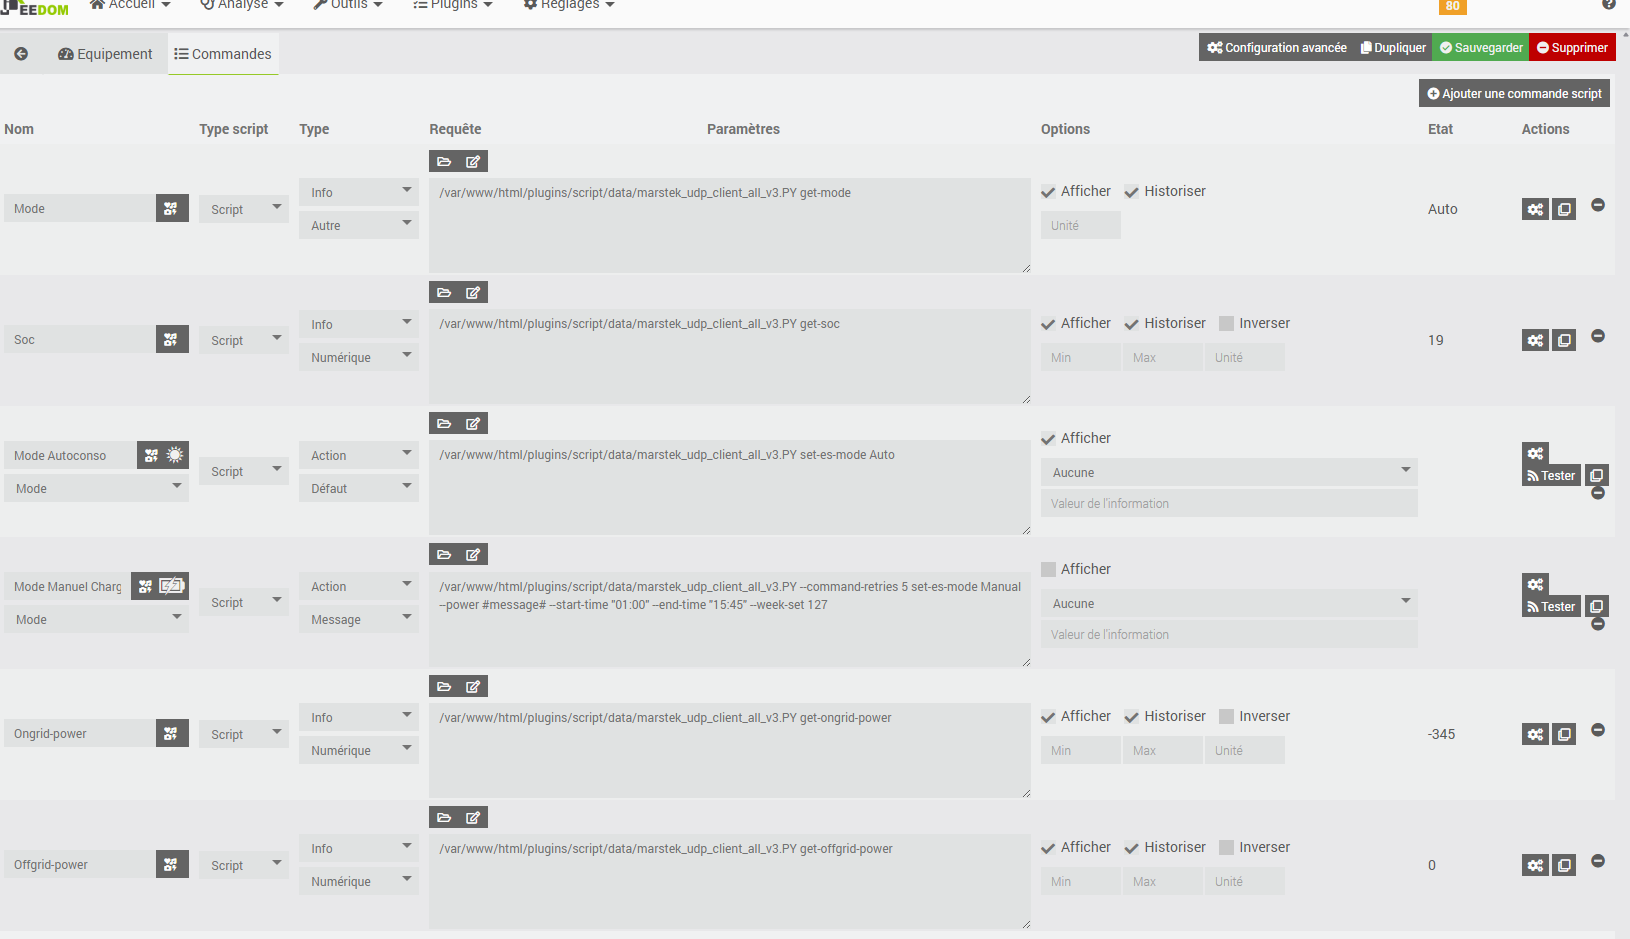
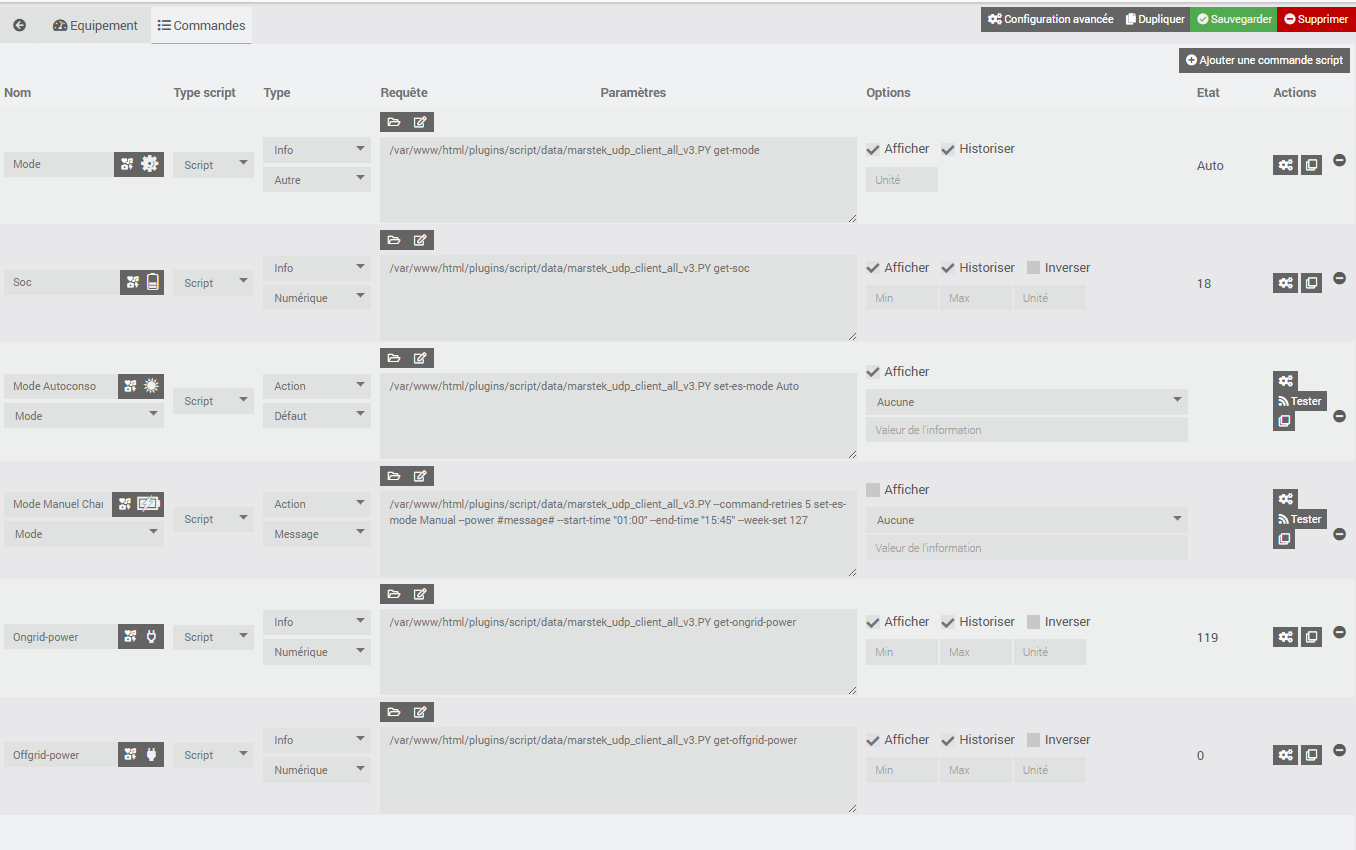
Add verbose option to jeedom compatibilty

diff --git a/marstek_udp_client_all_v3.py b/marstek_udp_client_all_v3.py
@@ -17,8 +17,8 @@ import sys
 import time
 from typing import Optional, Tuple, List, Any
 
-# Suppression du logging pour ne pas polluer la sortie JSON
-logging.basicConfig(level=logging.WARNING) 
+# Logging désactivé par défaut pour ne pas polluer la sortie JSON (activable avec --verbose)
+logging.basicConfig(level=logging.CRITICAL) 
 
 DEFAULT_IP = "192.168.0.182"
 DEFAULT_PORT = 30000
@@ -94,7 +94,8 @@ def execute_with_retry(
     max_retries: int = 3,
     base_delay: float = 1.0,
     base_timeout: float = None,
-    validation_func=None
+    validation_func=None,
+    verbose: bool = False
 ) -> Any:
     """
     Execute an operation with intelligent retry, progressive delay, and progressive timeout.
@@ -106,6 +107,7 @@ def execute_with_retry(
         base_delay: Base delay in seconds (will be doubled each attempt)
         base_timeout: Base timeout for operation (will be doubled each attempt). If None, timeout not modified.
         validation_func: Optional function to validate the result (returns True if valid)
+        verbose: If True, display retry warnings
 
     Returns:
         Result from operation_func if successful
@@ -116,8 +118,8 @@ def execute_with_retry(
             current_timeout = None
             if base_timeout is not None:
                 current_timeout = base_timeout + (1.0 * attempt)
-                if attempt > 0:
-                    logging.info(f"{operation_name} attempt {attempt + 1} using increased timeout: {current_timeout}s")
+                if attempt > 0 and verbose:
+                    print(f"INFO: {operation_name} attempt {attempt + 1} using increased timeout: {current_timeout}s", file=sys.stderr)
 
             # Exécuter l'opération avec timeout progressif si supporté
             result = operation_func(current_timeout) if base_timeout is not None else operation_func()
@@ -133,10 +135,12 @@ def execute_with_retry(
                             error_msg = first_result['error'].get('message', 'Unknown error')
                             # Parse error (-32700) ou autres erreurs critiques : retry
                             if error_code == -32700 or error_code < 0:
-                                logging.warning(f"{operation_name} attempt {attempt + 1} failed with error {error_code}: {error_msg}")
+                                if verbose:
+                                    print(f"WARNING: {operation_name} attempt {attempt + 1} failed with error {error_code}: {error_msg}", file=sys.stderr)
                                 if attempt < max_retries - 1:
                                     delay = base_delay * (2 ** attempt)
-                                    logging.warning(f"Retrying {operation_name} in {delay}s...")
+                                    if verbose:
+                                        print(f"WARNING: Retrying {operation_name} in {delay}s...", file=sys.stderr)
                                     time.sleep(delay)
                                     continue
                         elif 'result' in first_result:
@@ -151,14 +155,17 @@ def execute_with_retry(
             # Échec de validation : retry
             if attempt < max_retries - 1:
                 delay = base_delay * (2 ** attempt)
-                logging.warning(f"{operation_name} attempt {attempt + 1} failed validation, retrying in {delay}s...")
+                if verbose:
+                    print(f"WARNING: {operation_name} attempt {attempt + 1} failed validation, retrying in {delay}s...", file=sys.stderr)
                 time.sleep(delay)
 
         except Exception as e:
-            logging.error(f"{operation_name} attempt {attempt + 1} raised exception: {e}")
+            if verbose:
+                print(f"ERROR: {operation_name} attempt {attempt + 1} raised exception: {e}", file=sys.stderr)
             if attempt < max_retries - 1:
                 delay = base_delay * (2 ** attempt)
-                logging.warning(f"Retrying {operation_name} in {delay}s...")
+                if verbose:
+                    print(f"WARNING: Retrying {operation_name} in {delay}s...", file=sys.stderr)
                 time.sleep(delay)
             else:
                 # Dernière tentative : laisser l'exception remonter
@@ -221,13 +228,15 @@ def get_single_value(args: argparse.Namespace, field_name: str, source: str = "b
         return False
 
     # Utiliser le système de retry intelligent avec timeout progressif
+    verbose = getattr(args, 'verbose', False)
     results = execute_with_retry(
         operation_func=fetch_data,
         operation_name=f"get-{field_name}",
         max_retries=max_retries,
         base_delay=1.0,
         base_timeout=args.timeout,
-        validation_func=validate_result
+        validation_func=validate_result,
+        verbose=verbose
     )
 
     # Extract the field value
@@ -253,6 +262,7 @@ def execute_command(args: argparse.Namespace) -> List[Any]:
         local_bind = (host, int(port_str))
 
     max_retries = getattr(args, 'command_retries', 3)
+    verbose = getattr(args, 'verbose', False)
 
     # Logique pour la commande par défaut: all-status (le plus pertinent pour Jeedom)
     if args.cmd == "all-status":
@@ -280,7 +290,8 @@ def execute_command(args: argparse.Namespace) -> List[Any]:
             operation_name="all-status",
             max_retries=max_retries,
             base_delay=1.0,
-            base_timeout=args.timeout
+            base_timeout=args.timeout,
+            verbose=verbose
         )
 
     # Pour les commandes simples d'état (GET) - Pour VenusE 3.0
@@ -297,7 +308,8 @@ def execute_command(args: argparse.Namespace) -> List[Any]:
             operation_name="es-mode",
             max_retries=max_retries,
             base_delay=1.0,
-            base_timeout=args.timeout
+            base_timeout=args.timeout,
+            verbose=verbose
         )
 
     elif args.cmd == "bat-status":
@@ -313,7 +325,8 @@ def execute_command(args: argparse.Namespace) -> List[Any]:
             operation_name="bat-status",
             max_retries=max_retries,
             base_delay=1.0,
-            base_timeout=args.timeout
+            base_timeout=args.timeout,
+            verbose=verbose
         )
 
     # Commandes GET individuelles pour Jeedom (retourne une valeur unique)
@@ -404,7 +417,8 @@ def execute_command(args: argparse.Namespace) -> List[Any]:
             if attempt < max_command_retries - 1:
                 # Tempo progressive : 2s, 4s, 8s...
                 delay = base_delay * (2 ** attempt)
-                logging.warning(f"set-es-mode attempt {attempt + 1} failed, retrying in {delay}s...")
+                if verbose:
+                    print(f"WARNING: set-es-mode attempt {attempt + 1} failed, retrying in {delay}s...", file=sys.stderr)
                 time.sleep(delay)
 
         # Si toutes les tentatives échouent, retourner le dernier résultat
@@ -424,6 +438,7 @@ def cli():
     p.add_argument("--retries", type=int, default=2, help="Number of retries for network operations (default: 2)")
     p.add_argument("--command-retries", type=int, default=3, dest="command_retries", help="Number of command retry attempts for set-es-mode with progressive delay (default: 3)")
     p.add_argument("--bind", default=None, help="Bind to local ip:port (e.g. 0.0.0.0:30000)")
+    p.add_argument("--verbose", action="store_true", help="Show retry warnings and debug information (useful for troubleshooting)")
 
     sub = p.add_subparsers(dest="cmd", required=False)
 

diff --git a/README.md b/README.md
@@ -220,9 +220,12 @@ python marstek_udp_client_all_v3.py set-es-mode Passive
 --retries RETRIES          # Nombre de tentatives réseau (défaut: 2)
 --command-retries RETRIES  # Nombre de tentatives pour set-es-mode avec délai progressif (défaut: 3)
 --bind BIND                # Bind local ip:port (ex: 0.0.0.0:30000)
+--verbose                  # Affiche les messages de retry (désactivé par défaut pour Jeedom)
 ```
 
-**Note sur --command-retries :** Pour fiabiliser l'envoi des commandes `set-es-mode`, le script réessaie automatiquement jusqu'à 3 fois avec des délais progressifs (2s, 4s, 8s) en cas d'échec. Vous pouvez ajuster ce nombre avec `--command-retries`.
+**Notes importantes :**
+- **--command-retries :** Pour fiabiliser l'envoi des commandes `set-es-mode`, le script réessaie automatiquement jusqu'à 3 fois avec des délais progressifs (2s, 4s, 8s) en cas d'échec. Vous pouvez ajuster ce nombre avec `--command-retries`.
+- **--verbose :** Par défaut, les messages de retry sont **masqués** pour ne pas polluer la sortie JSON dans Jeedom. Activez cette option uniquement pour le débogage ou les tests manuels.
 
 ### Exemples d'utilisation avancés
 
@@ -240,7 +243,13 @@ python marstek_udp_client_all_v3.py --bind 0.0.0.0:30001 all-status
 
 # Augmenter le nombre de tentatives pour set-es-mode (en cas de réseau instable)
 python marstek_udp_client_all_v3.py --command-retries 5 set-es-mode Manual --power -2000 --start-time "22:00" --end-time "06:00" --week-set 127
+
+# Activer le mode verbose pour le débogage (affiche les retry sur stderr)
+python marstek_udp_client_all_v3.py --verbose get-mode
+python marstek_udp_client_all_v3.py --verbose --command-retries 5 set-es-mode Auto
 ```
+
+**Note :** Le mode `--verbose` affiche les messages de retry sur **stderr** (erreur standard), ce qui permet de les distinguer de la sortie JSON sur **stdout**. Ceci est utile pour le débogage sans impacter Jeedom.
 
 #### Scénarios d'utilisation du mode Manual
 
